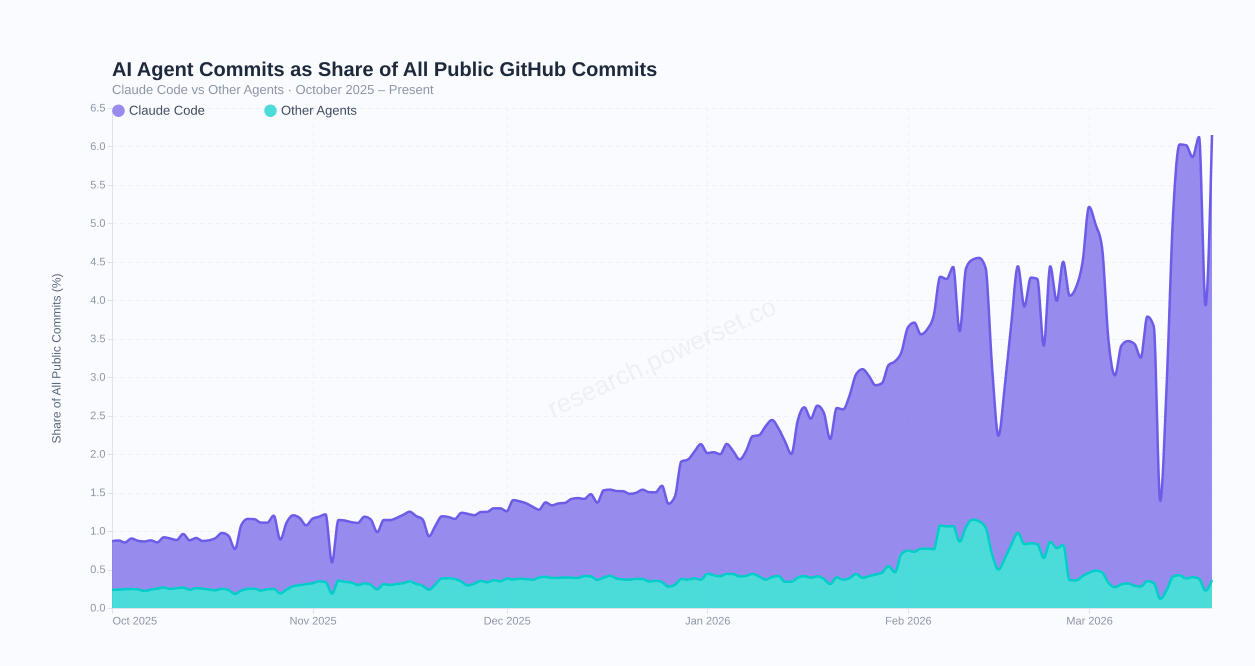
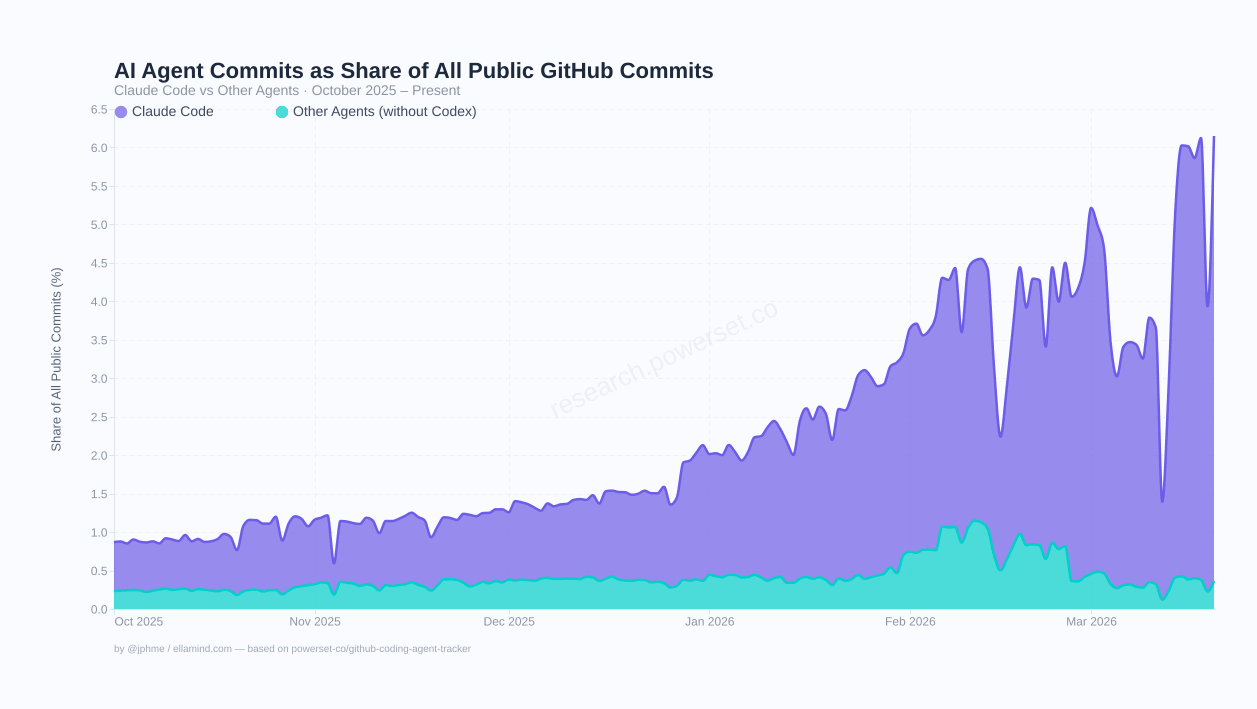
Increase font sizes, add (without Codex) to legend, add source attribution
- Bumped title, subtitle, axis label, and legend font sizes
- Legend now reads "Other Agents (without Codex)" for clarity
- Added small source note at bottom: "by @jphme / ellamind.com"

https://claude.ai/code/session_014wvLU8jndavNQ5BthFgYj1

diff --git a/src/commit-share-chart.ts b/src/commit-share-chart.ts
@@ -54,7 +54,11 @@ function loadData(): StackedPoint[] {
     const otherSum = OTHER_AGENT_KEYS.reduce((sum, k) => sum + (rows.get(k) ?? 0), 0);
 
     points.push({ date, category: "Claude Code", percentage: (claudeSum / total) * 100 });
-    points.push({ date, category: "Other Agents", percentage: (otherSum / total) * 100 });
+    points.push({
+      date,
+      category: "Other Agents (without Codex)",
+      percentage: (otherSum / total) * 100,
+    });
   }
 
   points.sort((a, b) => a.date.localeCompare(b.date) || a.category.localeCompare(b.category));
@@ -64,7 +68,7 @@ function loadData(): StackedPoint[] {
 function buildSpec(data: StackedPoint[]): vegaLite.TopLevelSpec {
   // Elluminate-inspired palette: deep violet for Claude, soft teal for Others
   const colorScale = {
-    domain: ["Claude Code", "Other Agents"],
+    domain: ["Claude Code", "Other Agents (without Codex)"],
     range: ["#6C5CE7", "#00CEC9"],
   };
 
@@ -72,7 +76,7 @@ function buildSpec(data: StackedPoint[]): vegaLite.TopLevelSpec {
     $schema: "https://vega.github.io/schema/vega-lite/v5.json",
     width: 1100,
     height: 500,
-    padding: { top: 60, right: 40, bottom: 40, left: 50 },
+    padding: { top: 60, right: 40, bottom: 55, left: 50 },
     background: "#FAFBFF",
     layer: [
       // Stacked area
@@ -94,7 +98,7 @@ function buildSpec(data: StackedPoint[]): vegaLite.TopLevelSpec {
               labelAngle: 0,
               tickCount: "month",
               labelFont: "Helvetica Neue, Arial, sans-serif",
-              labelFontSize: 11,
+              labelFontSize: 12,
               labelColor: "#8B95A5",
               gridColor: "#EEF0F6",
               gridDash: [4, 4],
@@ -109,13 +113,13 @@ function buildSpec(data: StackedPoint[]): vegaLite.TopLevelSpec {
             axis: {
               title: "Share of All Public Commits (%)",
               titleFont: "Helvetica Neue, Arial, sans-serif",
-              titleFontSize: 12,
+              titleFontSize: 13,
               titleFontWeight: 500,
               titleColor: "#5A6577",
               titlePadding: 16,
               format: ".1f",
               labelFont: "Helvetica Neue, Arial, sans-serif",
-              labelFontSize: 11,
+              labelFontSize: 12,
               labelColor: "#8B95A5",
               gridColor: "#EEF0F6",
               gridDash: [4, 4],
@@ -132,11 +136,12 @@ function buildSpec(data: StackedPoint[]): vegaLite.TopLevelSpec {
               orient: "top",
               direction: "horizontal",
               labelFont: "Helvetica Neue, Arial, sans-serif",
-              labelFontSize: 13,
+              labelFontSize: 14,
               labelFontWeight: 500,
               labelColor: "#3D4663",
               symbolType: "circle",
               symbolSize: 120,
+              labelLimit: 500,
               columnPadding: 20,
               offset: -10,
             },
@@ -153,7 +158,7 @@ function buildSpec(data: StackedPoint[]): vegaLite.TopLevelSpec {
         mark: {
           type: "text",
           text: "AI Agent Commits as Share of All Public GitHub Commits",
-          fontSize: 20,
+          fontSize: 22,
           fontWeight: 700,
           font: "Helvetica Neue, Arial, sans-serif",
           color: "#1E2A3A",
@@ -170,7 +175,7 @@ function buildSpec(data: StackedPoint[]): vegaLite.TopLevelSpec {
         mark: {
           type: "text",
           text: "Claude Code vs Other Agents  ·  October 2025 – Present",
-          fontSize: 13,
+          fontSize: 14,
           fontWeight: 400,
           font: "Helvetica Neue, Arial, sans-serif",
           color: "#8B95A5",
@@ -179,6 +184,23 @@ function buildSpec(data: StackedPoint[]): vegaLite.TopLevelSpec {
         encoding: {
           x: { datum: 0, type: "quantitative", scale: null },
           y: { datum: -18, type: "quantitative", scale: null },
+        },
+      },
+      // Source attribution
+      {
+        data: { values: [{}] },
+        mark: {
+          type: "text",
+          text: "by @jphme / ellamind.com — based on powerset-co/github-coding-agent-tracker",
+          fontSize: 10,
+          fontWeight: 400,
+          font: "Helvetica Neue, Arial, sans-serif",
+          color: "#A0A8B8",
+          align: "left",
+        },
+        encoding: {
+          x: { datum: 0, type: "quantitative", scale: null },
+          y: { datum: { expr: "height + 40" }, type: "quantitative", scale: null },
         },
       },
       // Watermark
